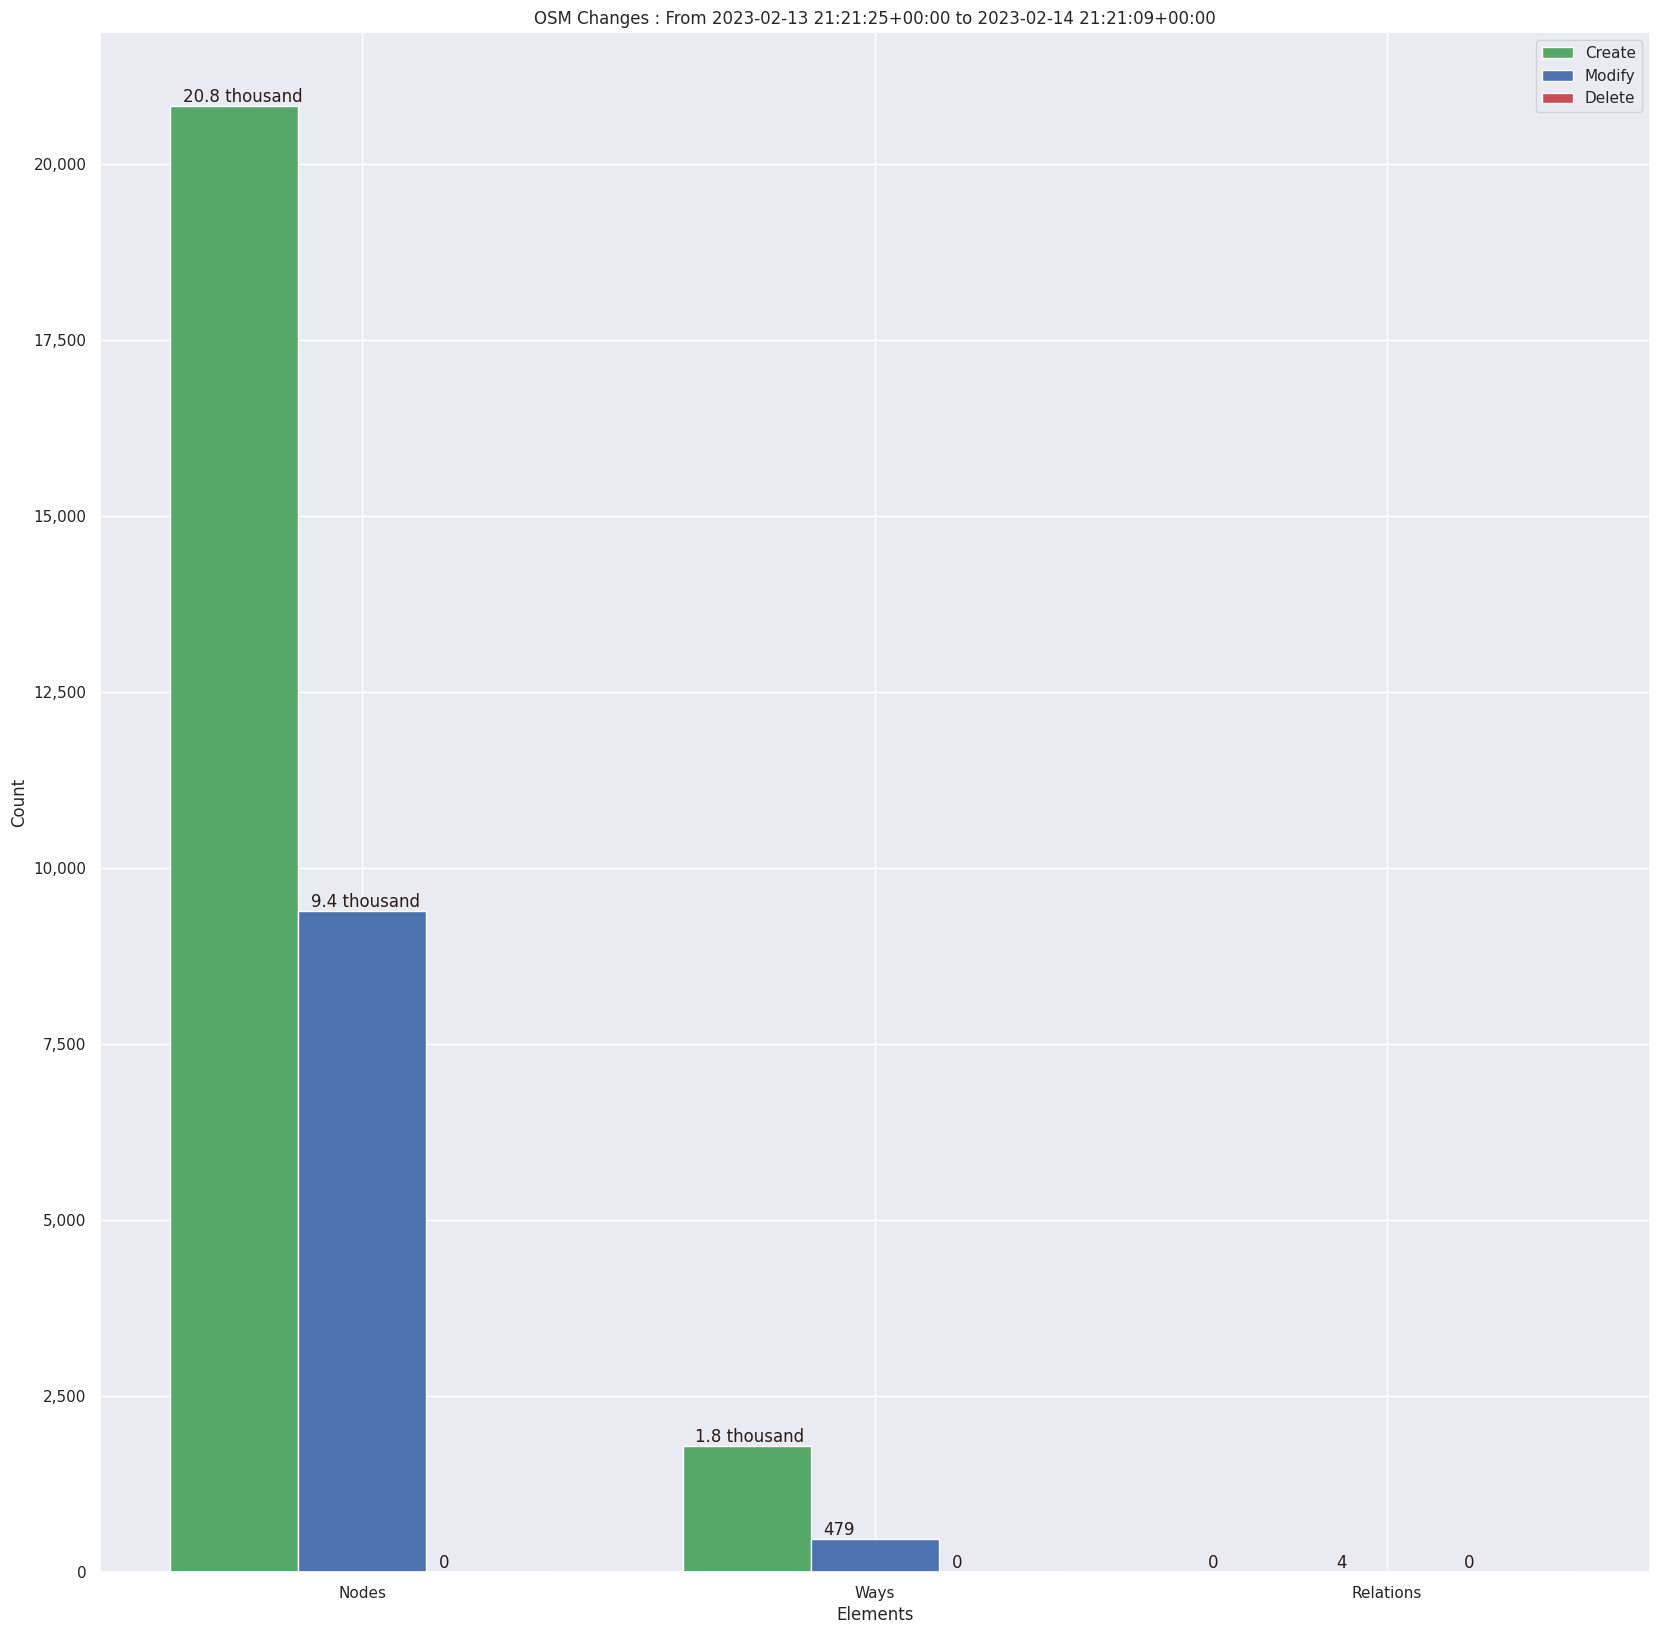
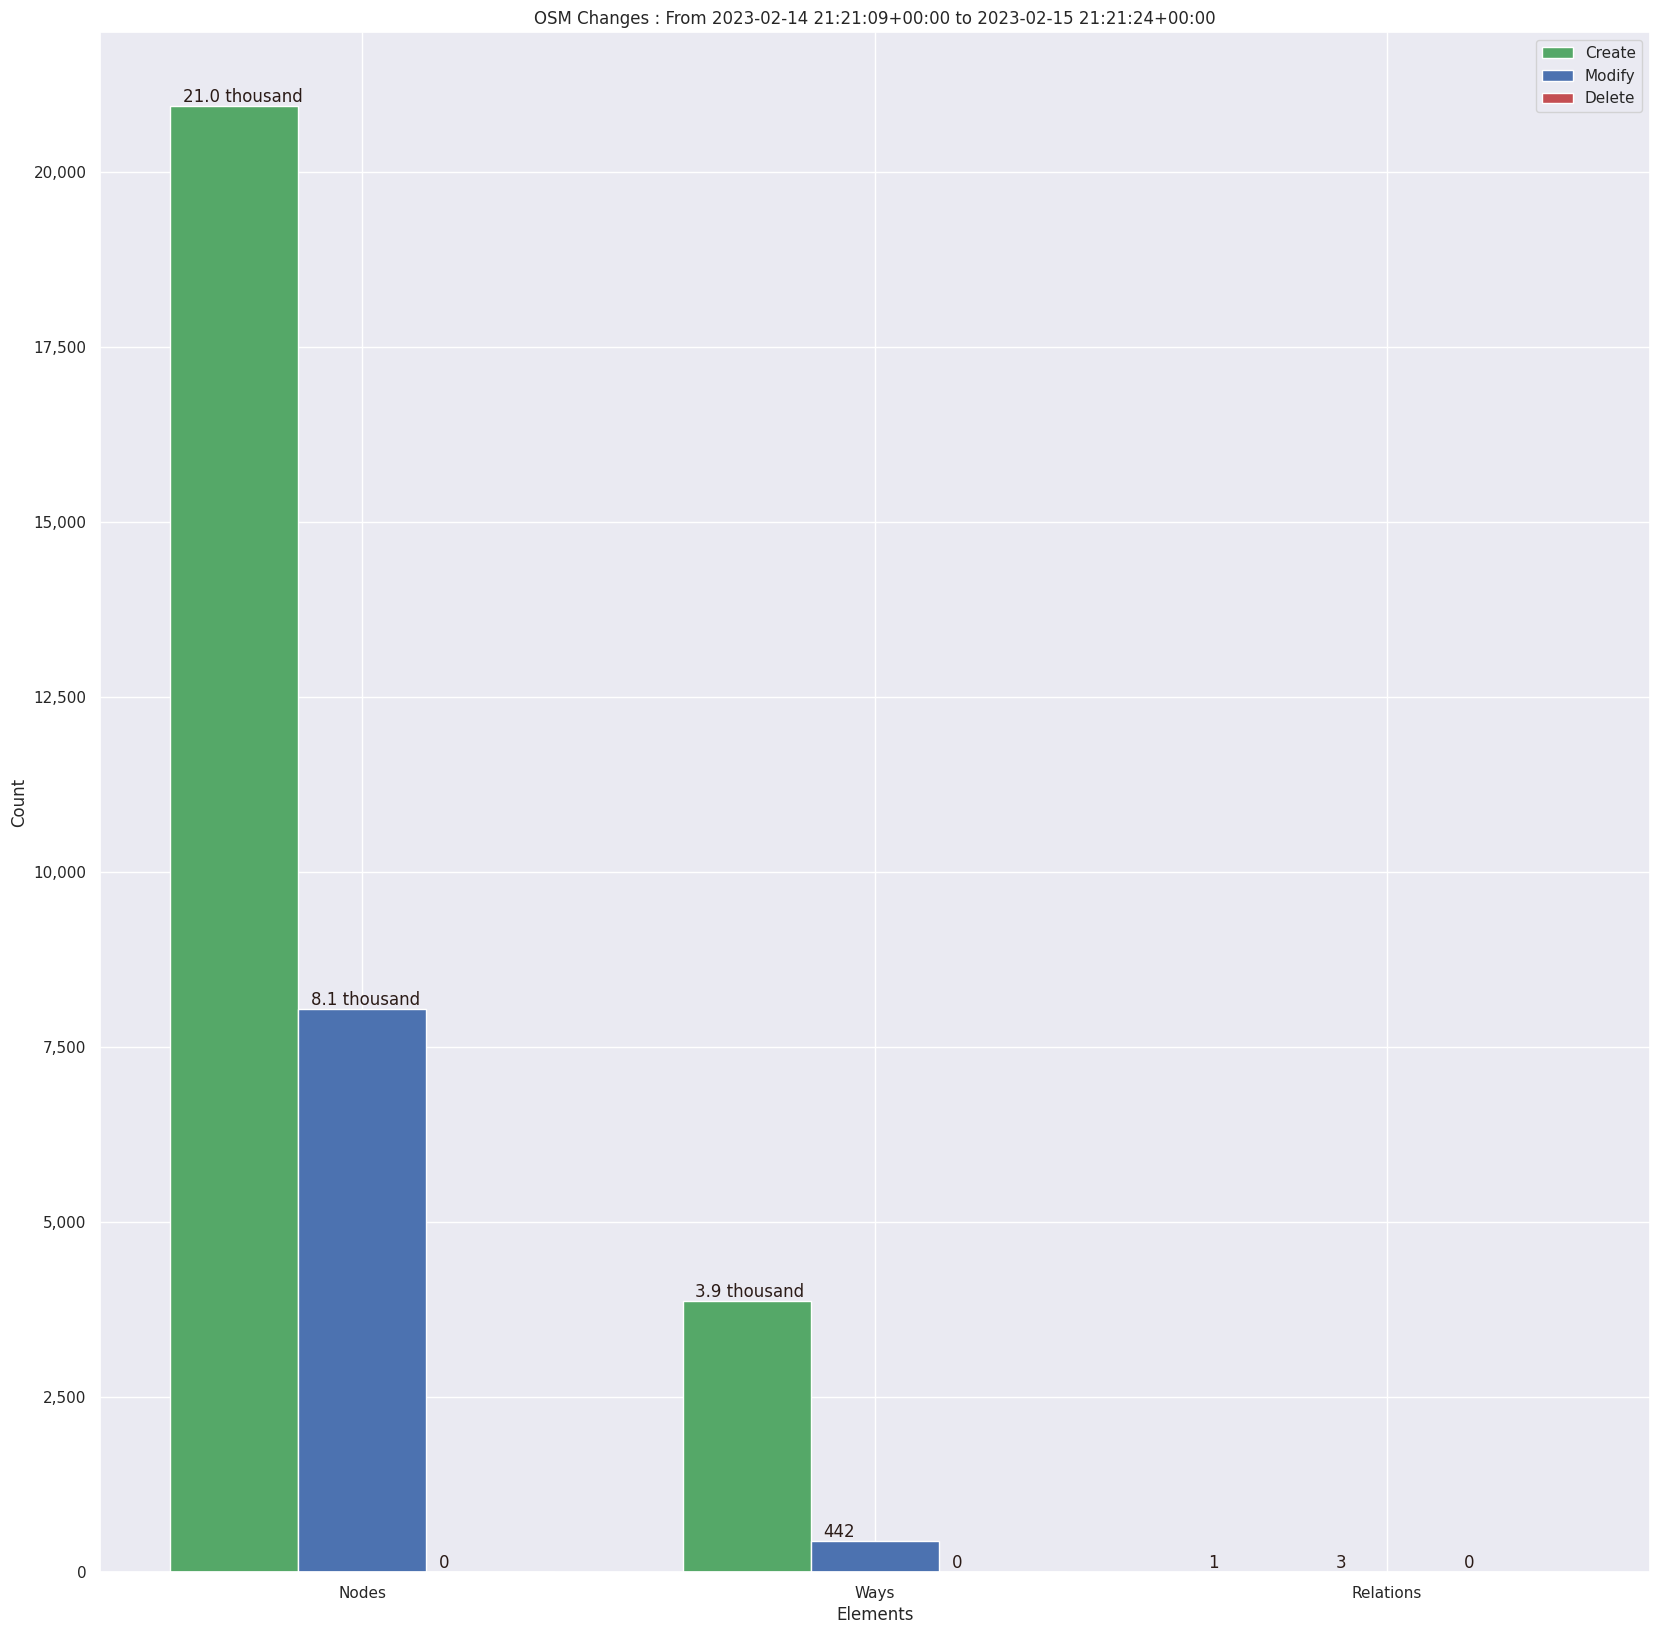
Updated Readme Daily Nepal

diff --git a/stats/Nepal/Daily/README.md b/stats/Nepal/Daily/README.md
@@ -1,10 +1,10 @@
 ### Last Update :
 
-### Stats From 2023-02-14 03:06:25+05:45 to 2023-02-15 03:06:09+05:45
+### Stats From 2023-02-15 03:06:09+05:45 to 2023-02-16 03:06:24+05:45
 
-45 Users made 150 changesets with 32494 map changes.
-- DiahW IRM-ED tops table with 8760 changes, Followed by Heinz_V & Fadlilaa IRM-RV. Users created 20830 nodes , 1788 ways & 0 relations, Including 1577 buildings, 161 highways, 10 waterways. Users also modified 9393 nodes, 479 ways & 4 relations
-- Top three trending hashtags for those stats are #AtlasChecks : 11, #maproulette : 11 & #geoneer : 6
+47 Users made 193 changesets with 33324 map changes.
+- Nirmala Rawat tops table with 11546 changes, Followed by seichter & Lalit_IAAS. Users created 20952 nodes , 3875 ways & 1 relations, Including 3704 buildings, 94 highways, 39 waterways. Users also modified 8051 nodes, 442 ways & 3 relations
+- Top three trending hashtags for those stats are #maproulette : 11, #AtlasChecks : 11 & #SharpAngleCheck : 10
 - 
 ![Alt text](./charts/osm_changes.png) 
 ![Alt text](./charts/users_per_hashtag.png) 
